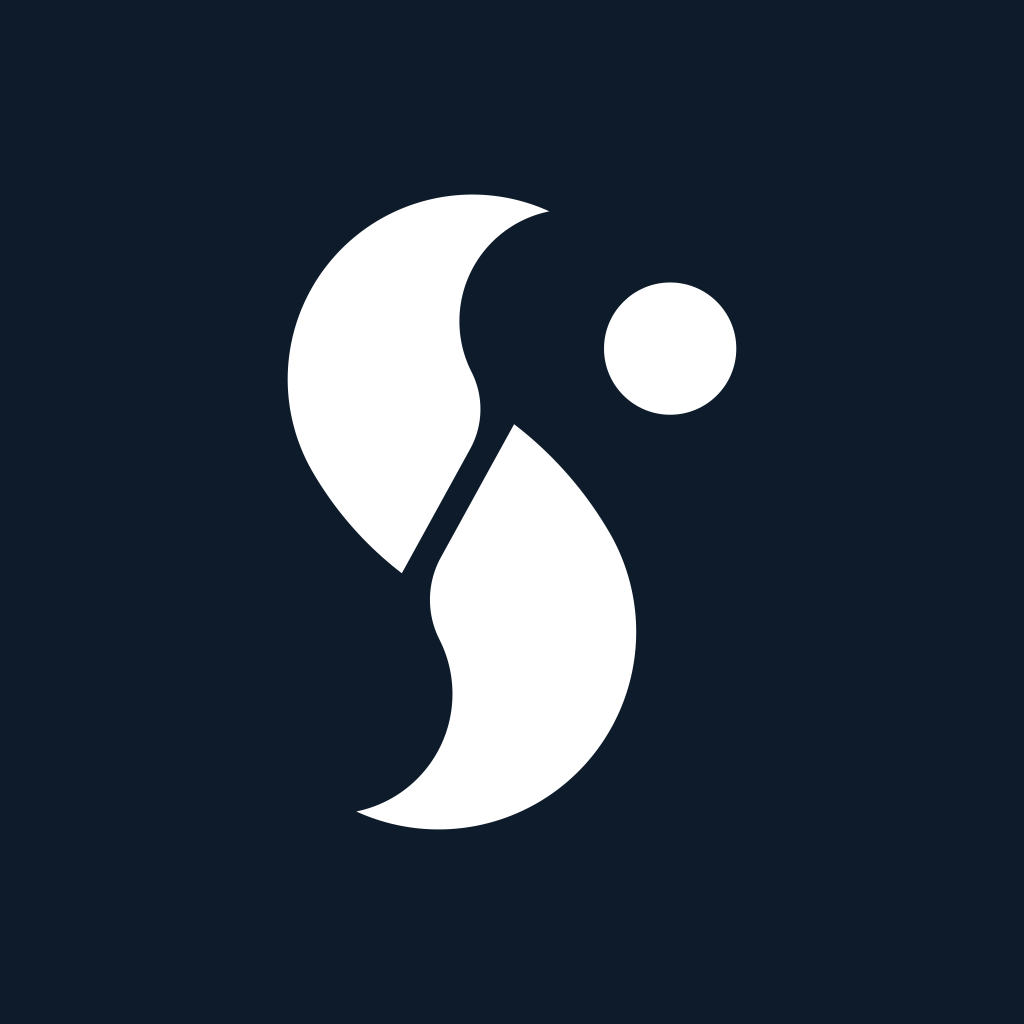
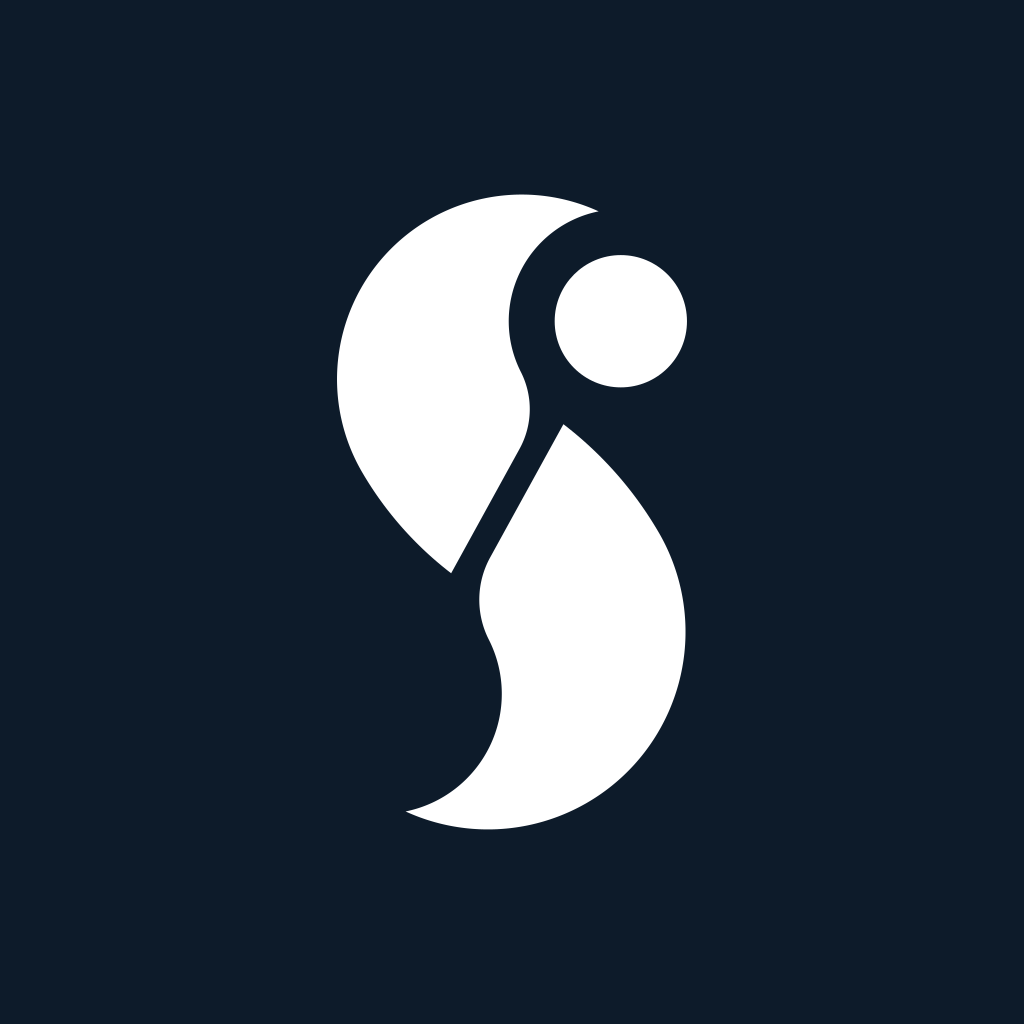
Cradle the point in the S's throat, concentric with the arc that cups it
The point is moved into the concave bay on the S's right face, and its
centre is placed at exactly the centre of the throat arc — the 17.7232
circle at (44.8724, 20.0286) whose arc forms that face.

That placement is not a judgement call. Because the point shares its
centre with the arc that cradles it, the crescent of white between them
is a constant 7.2646 units all the way round, variation 0.000. Anywhere
else in the bay the crescent tapers: the position first chosen by eye,
2.26 units further in, ran 5.00 at its narrowest and 6.93 at its widest.
It is the same principle as the straight cut between the two strokes —
negative space of one measured width rather than a gap that happens to
look about right — and it also gives the largest clearance of any
position in the bay, 7.26 to the upper stroke and 8.18 to the lower.

Cradling it makes the glyph 22% narrower, 55.33 wide against 70.93,
because the point no longer defines the right edge. Every placement
derived from the ink box is regenerated: the tile transform, the
untiled in-app transform, and the lockups. The maskable icon still fits
Android's safe circle with room to spare, 160 px of ink against the
171 px allowed.

Small sizes get their own point. The crescent is 0.93 px at a 16 px
icon, so BRAND_POINT_SMALL slides it 10 units back out of the cradle,
opening the crescent to 11.55 units. That widens its ink box too, so
the small variant carries its own centring transform, and
[…]

Changed region(s): [[0.2812, 0.1875, 0.6875, 0.8125], [0.5938, 0.2812, 0.7188, 0.4062]]

diff --git a/src/lib/brand-mark.ts b/src/lib/brand-mark.ts
@@ -23,13 +23,18 @@ export const BRAND_TILE = { x: 0, y: 0, size: 512, rx: 96 } as const;
 
 /** Places the 100-unit glyph inside the tile, centred on its ink bounding box,
  *  at 80% of the tile height so the rounded corners keep their margin. */
-export const BRAND_GLYPH_TRANSFORM = "translate(111.2867 51.2) scale(4.0804)";
+export const BRAND_GLYPH_TRANSFORM = "translate(143.1125 51.2) scale(4.0804)";
+
+/** The small-size variant sits wider, because its point is slid out of the
+ *  cradle (see BRAND_POINT_SMALL) and so the ink bounding box it is centred on
+ *  is 10 units wider. Same scale, different centring. */
+export const BRAND_GLYPH_TRANSFORM_SMALL = "translate(122.7103 51.2) scale(4.0804)";
 
 /** The same glyph with no tile behind it, scaled so its ink fills the box top to
  *  bottom. Used by the in-app mark, where the symbol stands on the page ground
  *  and the surrounding layout — not a tile — provides the breathing room. The
  *  mark therefore occupies exactly the slot the tiled version used to. */
-export const BRAND_GLYPH_TRANSFORM_BARE = "translate(75.1084 0) scale(5.1006)";
+export const BRAND_GLYPH_TRANSFORM_BARE = "translate(114.8907 0) scale(5.1006)";
 
 /** The upper stroke. Four arcs and the straight cut, meeting at two cusps. */
 export const BRAND_STROKE_PATH =
@@ -47,8 +52,21 @@ export const BRAND_STROKE_PATH_SMALL =
  *  stroke's facing edge exactly onto the lower one; see the brand doc. */
 export const BRAND_COUNTER_TRANSFORM = "translate(55.1029 100.3813) scale(-1.07)";
 
-/** The settled point. */
-export const BRAND_POINT = { cx: 60.4716, cy: 24.3581, r: 10.4586 } as const;
+/** The settled point, cradled in the S's throat. Its centre is exactly the
+ *  centre of the throat arc (17.7232 at (44.8724, 20.0286)), so the crescent of
+ *  white between the point and the curve that cups it is a constant 7.2646
+ *  units all the way round — the same constant-width idea as the straight cut
+ *  between the two strokes. Move it off that centre and the crescent starts to
+ *  taper. */
+export const BRAND_POINT = { cx: 44.8724, cy: 20.0286, r: 10.4586 } as const;
+
+/** The small-size point: the same circle slid 10 units out of the cradle, so
+ *  the crescent opens from 7.26 to 11.55 units and the point still separates
+ *  from the S at 20–32 px instead of fusing into it. The counterpart of the
+ *  widened cut in BRAND_STROKE_PATH_SMALL, and used by the same surfaces. At
+ *  16 px the crescent is still under two pixels and the two do merge; that is
+ *  the size, not the placement. */
+export const BRAND_POINT_SMALL = { cx: 54.8724, cy: 20.0286, r: 10.4586 } as const;
 
 /** Brand colours per theme. The symbol carries the colour and the ground stays
  *  out of its way: `ink` mirrors --clinical-accent, and `tile` mirrors the page
@@ -72,11 +90,15 @@ export type BrandColors = { tile: string; ink: string };
  *  the exported constants above. */
 export function brandMarkInner({ tile, ink }: BrandColors, small = false): string {
   const t = BRAND_TILE;
+  // The small-size variant is a set: the widened cut, the point slid out of the
+  // cradle, and the centring that its wider ink box needs. Mixing one with the
+  // other's placement puts the glyph off-centre in the tile.
   const stroke = small ? BRAND_STROKE_PATH_SMALL : BRAND_STROKE_PATH;
-  const p = BRAND_POINT;
+  const p = small ? BRAND_POINT_SMALL : BRAND_POINT;
+  const place = small ? BRAND_GLYPH_TRANSFORM_SMALL : BRAND_GLYPH_TRANSFORM;
   return (
     `<rect x="${t.x}" y="${t.y}" width="${t.size}" height="${t.size}" rx="${t.rx}" fill="${tile}" />` +
-    `<g transform="${BRAND_GLYPH_TRANSFORM}" fill="${ink}">` +
+    `<g transform="${place}" fill="${ink}">` +
     `<path d="${stroke}" />` +
     `<path d="${stroke}" transform="${BRAND_COUNTER_TRANSFORM}" />` +
     `<circle cx="${p.cx}" cy="${p.cy}" r="${p.r}" />` +
@@ -96,7 +118,7 @@ export function brandMarkSvg(colors: BrandColors = BRAND_LIGHT): string {
  *  app/icon.svg by scripts/generate-brand-assets.ts (verified in verify:cheap). */
 export function brandIconSvg(): string {
   const t = BRAND_TILE;
-  const p = BRAND_POINT;
+  const p = BRAND_POINT_SMALL;
   return `<svg viewBox="${BRAND_VIEWBOX}" xmlns="http://www.w3.org/2000/svg">
   <style>
     .tile { fill: ${BRAND_LIGHT.tile}; }
@@ -107,7 +129,7 @@ export function brandIconSvg(): string {
     }
   </style>
   <rect class="tile" x="${t.x}" y="${t.y}" width="${t.size}" height="${t.size}" rx="${t.rx}" />
-  <g class="ink" transform="${BRAND_GLYPH_TRANSFORM}">
+  <g class="ink" transform="${BRAND_GLYPH_TRANSFORM_SMALL}">
     <path d="${BRAND_STROKE_PATH_SMALL}" />
     <path d="${BRAND_STROKE_PATH_SMALL}" transform="${BRAND_COUNTER_TRANSFORM}" />
     <circle cx="${p.cx}" cy="${p.cy}" r="${p.r}" />

diff --git a/docs/brand/preview.html b/docs/brand/preview.html
@@ -651,7 +651,7 @@
             <path
               d="M10.8397 97.54 A18.9638 18.9638 0 0 0 24.0003 70.3687 A13.91 13.91 0 0 1 24.2156 57.3713 L35.7966 36.3105 A58.982 58.982 0 0 1 50.8485 53.3959 A31.245 31.245 0 0 1 10.8397 97.54 Z"
             />
-            <circle cx="60.4716" cy="24.3581" r="10.4586" />
+            <circle cx="44.8724" cy="20.0286" r="10.4586" />
           </g>
           <line class="guide" x1="82.5019" y1="-57.343" x2="-4.2293" y2="100.3838" />
           <line class="guide" x1="86.1822" y1="-55.3193" x2="-0.549" y2="102.4075" />
@@ -675,7 +675,7 @@
             class="edge b"
             d="M10.8397 97.54 A18.9638 18.9638 0 0 0 24.0003 70.3687 A13.91 13.91 0 0 1 24.2156 57.3713 L35.7966 36.3105 A58.982 58.982 0 0 1 50.8485 53.3959 A31.245 31.245 0 0 1 10.8397 97.54 Z"
           />
-          <circle class="edge c" cx="60.4716" cy="24.3581" r="10.4586" />
+          <circle class="edge c" cx="44.8724" cy="20.0286" r="10.4586" />
           <circle class="cusp" cx="41.3675" cy="2.6554" r="1.15" />
           <circle class="cusp" cx="18.0434" cy="59.8793" r="1.15" />
           <circle class="cusp" cx="10.8397" cy="97.54" r="1.15" />
@@ -743,7 +743,7 @@
             </tr>
             <tr>
               <td>The point</td>
-              <td class="n">60.4716, 24.3581</td>
+              <td class="n">44.8724, 20.0286</td>
               <td class="n">10.4586</td>
               <td class="role">43.95 along the cut, 14.90 off it</td>
             </tr>

diff --git a/docs/brand/psychsift-logo.md b/docs/brand/psychsift-logo.md
@@ -157,38 +157,43 @@ approximately — true is what fixes the cut's position; see **The middle line**
 
 ### The point
 
-A circle of radius **10.4586** centred at **(60.4716, 24.3581)**.
+A circle of radius **10.4586** centred at **(44.8724, 20.0286)** — which is exactly the centre of
+the throat arc.
 
-Measured against the cut, its centre sits **37.82 units along** the cut from the cut's midpoint and
-**18.27 units off** it, on the lower stroke's side. Its nearest approach to the upper stroke is
-18.46 units and to the lower stroke 14.95 — both several times the width of the cut, which is what
-keeps it reading as a separate particle rather than part of the letter.
+That is the whole of the placement rule. Because the point shares its centre with the arc that cups
+it, the crescent of white between them is a **constant 7.2646 units** all the way round — 17.7232
+less the point's own 10.4586 — with zero variation. It is the same idea as the straight cut between
+the two strokes: negative space of one measured width, not a gap that happens to look about right.
+Move the point off that centre and the crescent immediately starts to taper. Its clearance to the
+lower stroke is 8.18 units.
 
-It sat 7 units higher, at (60.4716, 17.3581), until 2026-08-28. The problem was not the size of the
-gap in the abstract but what the gap was measured to: the nearest point on the entire S was the
-upper stroke's sharp tip, and that tip aimed directly at the circle from 13.65 units away — 2.2 px
-at a 16 px icon, which antialiasing closes. A sharp point aimed at a circle reads as contact even
-when the numbers say otherwise. Dropping the circle 7 units opens that approach to 18.46 units
-(+35%) while the lower stroke, a broad flank rather than a point, still keeps 14.95. It also moves
-the circle from 17% to 24% of the glyph's height, which is where the bowl of a **P** closes back
-onto its stem — so the mark now carries a hint of the P in PsychSift alongside the S, which it did
-not when the circle sat level with the tip.
+**The small-size point** sits 10 units further out, at **(54.8724, 20.0286)**, opening the crescent
+from 7.26 to 11.55. It travels with the widened cut as a set — the wider ink box it produces also
+needs its own centring transform, and mixing one variant's point with the other's placement puts
+the glyph off-centre in the tile. Below about 20 px the crescent is under two pixels and the point
+fuses into the S whatever is done; that is the size, not the placement.
 
-The move is purely vertical, and deliberately so: the circle defines the glyph's right edge, so any
-horizontal move would change the ink bounding box and with it every placement, lockup layout and
-maskable safe-zone derived from it. As drawn, the bounding box is unchanged to four decimal places.
+Two earlier positions are worth recording, because both were wrong in instructive ways. It sat at
+(60.4716, 17.3581) until 2026-08-28, well clear of the S to the upper right. The nearest point on
+the entire S was the upper stroke's sharp tip, aimed straight at the circle from 13.65 units — 2.2
+px at a 16 px icon, which antialiasing closes. A sharp point aimed at a circle reads as contact
+even when the numbers say otherwise. Dropping it 7 units to (60.4716, 24.3581) fixed the contact
+reading and opened the approach to 18.46 units, but left it floating: too far out, and unrelated to
+any curve in the mark. Cradling it in the throat resolves both, and gives the mark a hint of the
+**P** in PsychSift alongside the S.
 
 An earlier draft of these files had it at (58.9234, 16.5279) with radius 10.2165. That was a
 measurement error, not a decision: 1.8 units in and 2.3% small, which crowded the S's shoulder and
 made the point look like a stray rather than a counterweight.
 
-With the point included, the glyph spans 0 to 70.93 horizontally and 0 to 100.38 vertically.
+With the point included, the glyph spans 0 to 55.33 horizontally and 0 to 100.38 vertically.
+The small-size variant, whose point sits further out, spans 0 to 65.33 by the same 0 to 100.38.
 
 ### The tile
 
 A square with a corner radius of **3/16 of its side** (18.75%). The glyph is scaled to **80% of the
 tile height** and its ink bounding box — S and point together — is centred in the tile. At 512 px
-that leaves 112 px clear on the left and right and 51 px top and bottom.
+that leaves 143 px clear on the left and right and 51 px top and bottom.
 
 An earlier draft weighted the placement 46% of the way from the S's own centre toward the glyph's
 right edge, on the theory that the light point should not drag the heavy S leftward. It
@@ -197,18 +202,28 @@ bounding box is both simpler and visibly right.
 
 ### Small sizes
 
-At 32 px and below the 4.2-unit cut closes up. `psychsift-favicon.svg` is a separate optical cut for
-that range: the gap is widened to **7.2 units** by moving each facing edge 1.5 units away from the
-other, and the blends are re-solved against the lines they now meet. Because only the facing edges
-move, the outer silhouette is identical to the one in the primary file. Use it for favicons, browser
-tabs, and anything rendered under 32 px.
+At 32 px and below two things close up: the 4.2-unit cut between the strokes, and the 7.26-unit
+crescent around the point. `psychsift-favicon.svg` is a separate optical variant for that range, and
+it changes both.
+
+The cut is widened to **7.2 units** by moving each facing edge 1.5 units away from the other, with
+the blends re-solved against the lines they now meet. Because only the facing edges move, the outer
+silhouette is identical to the one in the primary file.
+
+The point slides **10 units out of its cradle**, to (54.8724, 20.0286), opening the crescent to
+11.55 units. That widens the ink bounding box to 65.33, so this variant also carries its own
+centring transform; the three changes are one set and must not be mixed with the primary variant's
+placement. Below about 20 px the crescent is under two pixels and the point fuses into the S
+whatever is done — that is the size, not the placement.
+
+Use this variant for favicons, browser tabs, and anything rendered under 32 px.
 
 ### The maskable icon
 
 `psychsift-mark-maskable.svg` is full-bleed, because Android crops adaptive icons to whatever shape
 the launcher uses. Everything that must survive that crop has to sit inside a centred circle of
 **66.7% of the icon's width**. The glyph is scaled to **62% of the height**, which puts its furthest
-ink 168 px from the centre of a 512 px icon against the 171 px the safe circle allows. Do not raise
+ink 160 px from the centre of a 512 px icon against the 171 px the safe circle allows. Do not raise
 that 62%: an earlier draft used 58% with a different centring and still put ink 176 px out, outside
 the safe circle.
 

diff --git a/docs/design-system.md b/docs/design-system.md
@@ -258,8 +258,12 @@ image"}` — never a possibly-empty variable alone.
   Do not re-draw the paths by hand: they are the exact output of the construction recorded in
   `docs/brand/psychsift-logo.md`, whose master artwork is in `public/brand/`, and the two strokes
   are one path plus its point reflection — which is the only reason the cut between them stays
-  parallel. `app/icon.svg` deliberately uses the mark's small-size cut (a wider gap), because that
-  is the file browsers render at 16–32 px.
+  parallel. `app/icon.svg` and `favicon.ico` deliberately use the mark's **small-size set**, because
+  they are the files browsers render at 16–32 px: the widened cut (`BRAND_STROKE_PATH_SMALL`), the
+  point slid out of its cradle (`BRAND_POINT_SMALL`), and the centring that the wider ink box needs
+  (`BRAND_GLYPH_TRANSFORM_SMALL`). Those three travel together — mixing one with the other
+  variant's placement puts the glyph off-centre in the tile — and `brandMarkInner(colors, true)`
+  selects all three from the single `small` flag so a caller cannot pick them apart.
 - **In the app the mark has no tile.** `BrandMark` draws the symbol alone, filled
   `--clinical-accent`, standing directly on the page ground — so on a white page it reads as a
   mark rather than an app-store tile pasted into the chrome. It uses
